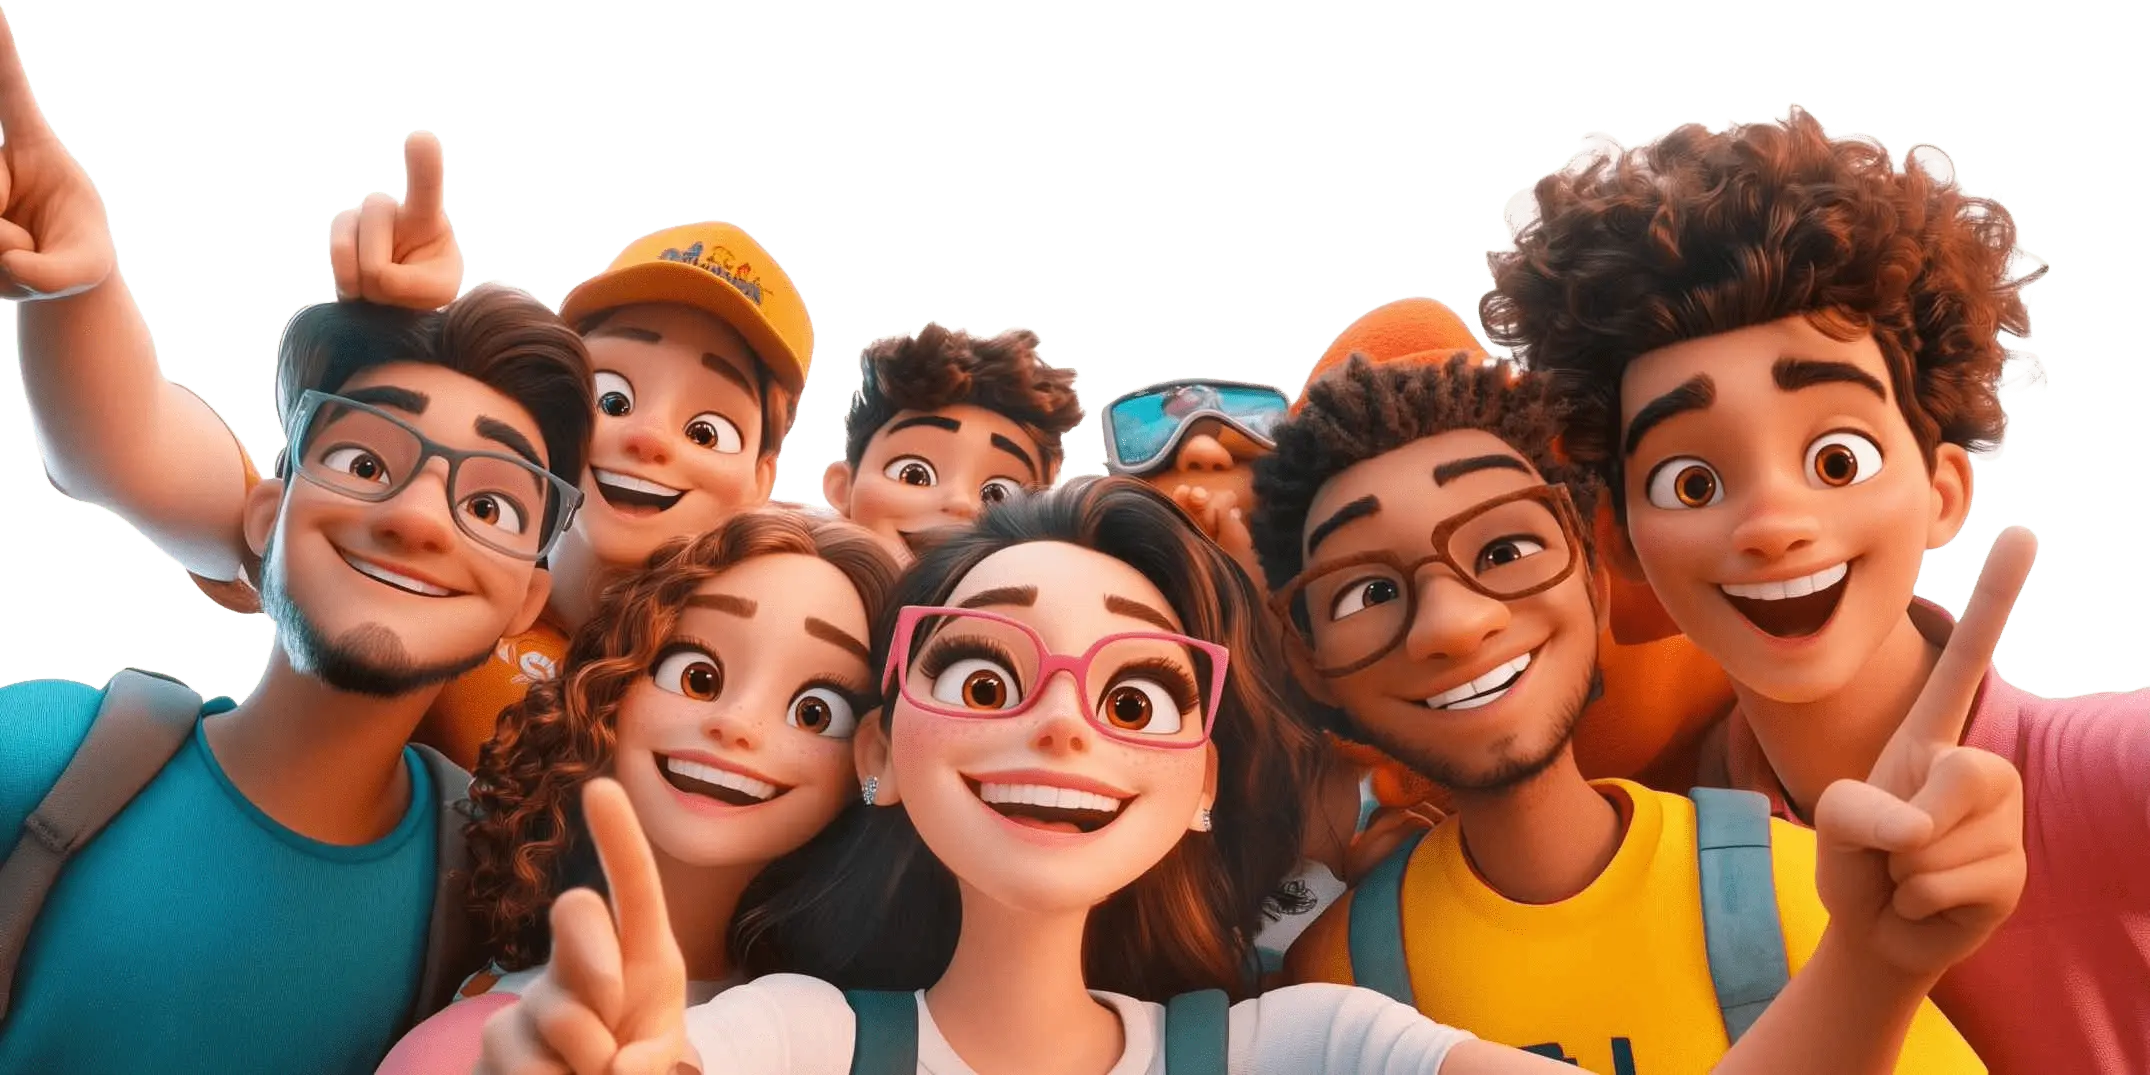
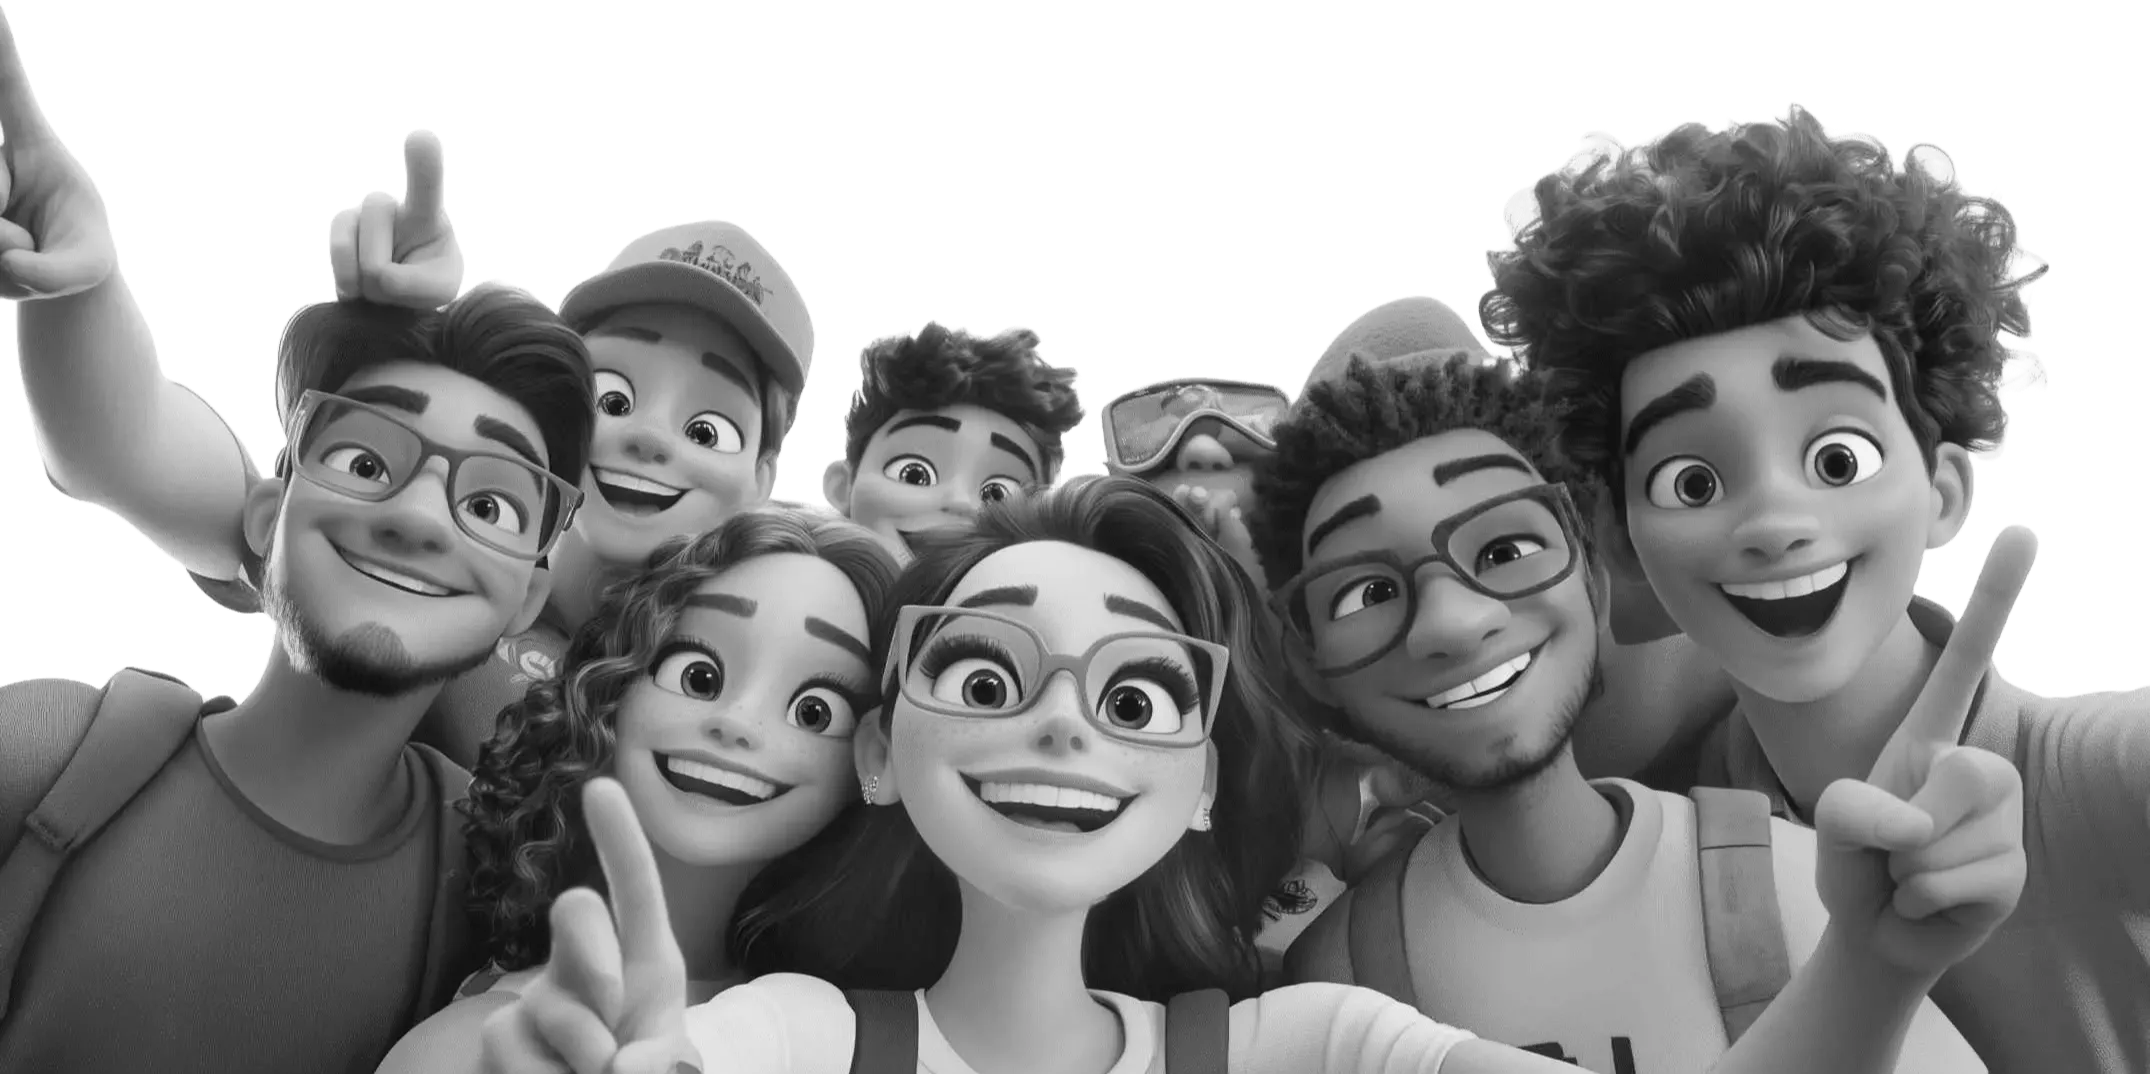
added selfie illustration

diff --git a/src/App.jsx b/src/App.jsx
@@ -5,18 +5,20 @@ import Industries from './components/Industries'
 import Footer from './components/Footer'
 import Mission from './components/Mission'
 import Success from './components/Success'
+import Selfie from './components/Selfie'
 
 const App = () => {
   return (
     <div>
-        {/* <Navbar/>
+      <Navbar/>
       <Hero/> 
       <Industries/> 
-      
-       <Mission/>
-      <Footer/>  */}
-
       <Success/>
+       <Mission/>
+       <Selfie/>
+      <Footer/>  
+
+      
 
      
 

diff --git a/src/components/Selfie.jsx b/src/components/Selfie.jsx
@@ -1,0 +1,12 @@
+import React from 'react'
+import heroImg from '../assets/home-background-min.webp'
+
+const Selfie = () => {
+  return (
+    <div>
+        <img src={heroImg} className='h-full w-full object-fit ' alt="" />
+    </div>
+  )
+}
+
+export default Selfie

diff --git a/src/index.css b/src/index.css
@@ -8,4 +8,15 @@ body {
     font-variation-settings:
         "wdth" 100;
 
+    -ms-overflow-style: none;
+
+}
+
+/* To hide ScrollBar from Hero Page */
+::-webkit-scrollbar {
+    display: none;
+}
+
+html {
+    scrollbar-width: none;
 }

diff --git a/src/components/Footer.jsx b/src/components/Footer.jsx
@@ -19,7 +19,7 @@ const Footer = () => {
   ];
 
   return (
-    <div className=" my-20  flex flex-col gap-20  max-w-[90rem] mx-auto">
+    <div className=" mt-40 mb-10 flex flex-col gap-20  max-w-[90rem] mx-auto">
       <div className="text-center flex justify-center flex-col items-center">
         <h1 className="text-7xl font-bold">VISTRA</h1>
         

diff --git a/src/components/Success.jsx b/src/components/Success.jsx
@@ -2,7 +2,7 @@ import React from "react";
 
 const Success = () => {
   return (
-    <div className=" max-w-[90rem]  mx-auto flex gap-6 justify-around py-20">
+    <div className=" max-w-[90rem] my-30 mx-auto flex gap-6 justify-around py-20">
       <div className=" w-full flex flex-col justify-center items-center border-r-3 border-l-3">
         <span className="text-[10rem] font-bold">10M+</span>
         <h4 className="text-lg font-medium">SAFE ENTRIES MANAGED</h4>